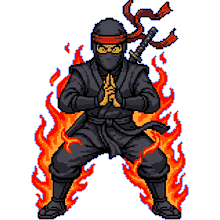
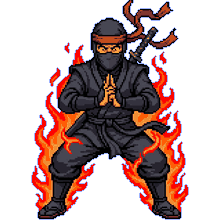
版14：膝をつく忍者・肌の色の直し

diff --git a/src/scenes/PlayScene.js b/src/scenes/PlayScene.js
@@ -1,18 +1,18 @@
 // 遊ぶ画面（key 'play'・scene.start('play', {index})）
 // 押す＝忍者の場所から線を引き始める／動かす＝線を伸ばす（墨が切れたら先が赤く光って止まる）／離す＝resolveDash を1回だけ呼び、結果を絵にする
 // 線を引いている間は敵の時間が DRAW_SLOW 倍。指は1本だけ（線の途中の2本目は無視＝Review Focus 3）
-import { t } from '../i18n/i18n.js?v=13';
-import { textStyle, buttonStyle, GOLD } from '../ui/text.js?v=13';
-import { crisp } from '../ui/pixel.js?v=13';
-import { play as sfx } from '../ui/sfx.js?v=13';
-import { W, H, DASH_SPEED, HITSTOP, DRAW_SLOW, HERO_FRAME } from '../config.js?v=13';
-import { startStroke, addPoint, isSwipe, pointAt } from '../core/path.js?v=13';
-import { resolveDash, foePos, starsFor } from '../core/dash.js?v=13';
-import { loadSave, writeSave, recordClear, learnKaton, markSeen, recordScore, totalBest } from '../core/save.js?v=13';
-import { killPoints, BOSS_HIT, BOSS_KILL, timeBonus, roomScore } from '../core/score.js?v=13';
-import { STAGES, katonFor } from '../data/stages.js?v=13';
-import { FOES, foeFlags, needsJutsu, badgeMarks } from '../data/foes.js?v=13';
-import { platformStore, sendScore } from '../platform.js?v=13';
+import { t } from '../i18n/i18n.js?v=14';
+import { textStyle, buttonStyle, GOLD } from '../ui/text.js?v=14';
+import { crisp } from '../ui/pixel.js?v=14';
+import { play as sfx } from '../ui/sfx.js?v=14';
+import { W, H, DASH_SPEED, HITSTOP, DRAW_SLOW, HERO_FRAME } from '../config.js?v=14';
+import { startStroke, addPoint, isSwipe, pointAt } from '../core/path.js?v=14';
+import { resolveDash, foePos, starsFor } from '../core/dash.js?v=14';
+import { loadSave, writeSave, recordClear, learnKaton, markSeen, recordScore, totalBest } from '../core/save.js?v=14';
+import { killPoints, BOSS_HIT, BOSS_KILL, timeBonus, roomScore } from '../core/score.js?v=14';
+import { STAGES, katonFor } from '../data/stages.js?v=14';
+import { FOES, foeFlags, needsJutsu, badgeMarks } from '../data/foes.js?v=14';
+import { platformStore, sendScore } from '../platform.js?v=14';
 
 const LINE = 0x96dcff, RED = 0xe0503c;
 
@@ -25,6 +25,7 @@ export class PlayScene extends Phaser.Scene {
     this.load.image('pose_in', 'assets/art/pose_in.png'); // 印を結ぶ忍者（火遁）
     this.load.image('pose_noto', 'assets/art/pose_noto.png'); // 納刀の決め（クリア）
     this.load.image('pose_kamae', 'assets/art/pose_kamae.png'); // 低い構え（3・2・1）
+    this.load.image('pose_shippai', 'assets/art/pose_shippai.png'); // 膝をつく（失敗）
     this.load.spritesheet('hero', 'assets/art/hero.png', { frameWidth: HERO_FRAME.w, frameHeight: HERO_FRAME.h });
     for (const [id, f] of Object.entries(FOES)) this.load.image(`foe_${id}`, `assets/${f.img}`);
   }
@@ -288,7 +289,11 @@ export class PlayScene extends Phaser.Scene {
   fail() {
     this.over = true; sfx('fail'); this.cameras.main.shake(200, 0.015);
     this.save = markSeen(this.save, 'makibishi'); writeSave(platformStore(), this.save); // ふれたら図鑑に
-    this.banner(t('play.fail'), t('play.failSub'), 1.3);
+    const c = this.add.container(W / 2, H / 2).setDepth(12); // まきびしを踏んで膝をつく忍者（合図の字＝11より前）
+    c.add(this.add.rectangle(0, 0, W, 700, 0x000000, 0.6));
+    c.add(this.add.image(0, -60, 'pose_shippai').setScale(2.3));
+    c.add(this.add.text(0, 230, t('play.fail'), textStyle(64, GOLD)).setOrigin(0.5));
+    c.add(this.add.text(0, 295, t('play.failSub'), textStyle(32)).setOrigin(0.5));
     this.time.delayedCall(1400, () => this.scene.restart({ index: this.index }));
   }
 
@@ -309,7 +314,7 @@ export class PlayScene extends Phaser.Scene {
 
   // 納刀の決め：間をクリアした瞬間、刀を収めた忍者を大きく出す（その後で結果の画面）
   notoShow(combo) {
-    const c = this.add.container(W / 2, H / 2).setDepth(10);
+    const c = this.add.container(W / 2, H / 2).setDepth(12); // 合図の字（11）より前
     c.add(this.add.rectangle(0, 0, W, 760, 0x000000, 0.55));
     const img = this.add.image(40, -40, 'pose_noto').setScale(2.6);
     c.add(img);

diff --git a/src/main.js b/src/main.js
@@ -1,12 +1,12 @@
 // src/main.js — 言葉と記録を決めて Phaser を始める（相撲ゲームの main.js と同じ分かれ道・同意書と♪の札は無い）
-import { TitleScene } from './scenes/TitleScene.js?v=13';
-import { PlayScene } from './scenes/PlayScene.js?v=13';
-import { MapScene } from './scenes/MapScene.js?v=13';
-import { CollectionScene } from './scenes/CollectionScene.js?v=13';
-import { ClearScene } from './scenes/ClearScene.js?v=13';
-import { initLang, setLang } from './i18n/i18n.js?v=13';
-import { isPlayables, initPlatform, playablesLang, platformStore, onYtPause } from './platform.js?v=13';
-import { W, H } from './config.js?v=13';
+import { TitleScene } from './scenes/TitleScene.js?v=14';
+import { PlayScene } from './scenes/PlayScene.js?v=14';
+import { MapScene } from './scenes/MapScene.js?v=14';
+import { CollectionScene } from './scenes/CollectionScene.js?v=14';
+import { ClearScene } from './scenes/ClearScene.js?v=14';
+import { initLang, setLang } from './i18n/i18n.js?v=14';
+import { isPlayables, initPlatform, playablesLang, platformStore, onYtPause } from './platform.js?v=14';
+import { W, H } from './config.js?v=14';
 
 export const SCENES = [TitleScene, MapScene, PlayScene, CollectionScene, ClearScene];
 

diff --git a/src/scenes/TitleScene.js b/src/scenes/TitleScene.js
@@ -1,12 +1,12 @@
 // 表紙：武家屋敷の背景・宙を舞う忍者（ゆっくり上下に浮き、床に影）・題・「たたいて始める」
 // 描いたら YouTube に firstFrameReady、たたける時に gameReady
 // 忍者の絵は Gemini では跳ばなかった（片足立ちになった）＝画面で浮かせて宙を舞って見せる（10/18）
-import { t } from '../i18n/i18n.js?v=13';
-import { textStyle, GOLD } from '../ui/text.js?v=13';
-import { crisp } from '../ui/pixel.js?v=13';
-import { W, H } from '../config.js?v=13';
-import { signalFirstFrame, signalGameReady } from '../platform.js?v=13';
-import { PARADE } from '../data/parade.js?v=13';
+import { t } from '../i18n/i18n.js?v=14';
+import { textStyle, GOLD } from '../ui/text.js?v=14';
+import { crisp } from '../ui/pixel.js?v=14';
+import { W, H } from '../config.js?v=14';
+import { signalFirstFrame, signalGameReady } from '../platform.js?v=14';
+import { PARADE } from '../data/parade.js?v=14';
 
 const FLOAT_Y = 640, FLOAT_AMP = 26, FLOOR_Y = 975;
 // 百鬼夜行の行列：2列（奥＝小さく暗く遅い・手前＝大きく明るい）。足元の高さ・大きさ・色・1秒に進む px・間隔

diff --git a/src/scenes/ClearScene.js b/src/scenes/ClearScene.js
@@ -1,12 +1,12 @@
 // 武家屋敷のクリア（key 'clear'）：星の合計・点数の合計・「次の場所は作っている途中」（Playables の決まり＝続きが無いと分かる）
-import { t } from '../i18n/i18n.js?v=13';
-import { textStyle, buttonStyle, GOLD } from '../ui/text.js?v=13';
-import { crisp } from '../ui/pixel.js?v=13';
-import { W, H, HERO_FRAME } from '../config.js?v=13';
-import { loadSave, clearSummary } from '../core/save.js?v=13';
-import { STAGES } from '../data/stages.js?v=13';
-import { platformStore } from '../platform.js?v=13';
-import { play as sfx } from '../ui/sfx.js?v=13';
+import { t } from '../i18n/i18n.js?v=14';
+import { textStyle, buttonStyle, GOLD } from '../ui/text.js?v=14';
+import { crisp } from '../ui/pixel.js?v=14';
+import { W, H, HERO_FRAME } from '../config.js?v=14';
+import { loadSave, clearSummary } from '../core/save.js?v=14';
+import { STAGES } from '../data/stages.js?v=14';
+import { platformStore } from '../platform.js?v=14';
+import { play as sfx } from '../ui/sfx.js?v=14';
 
 export class ClearScene extends Phaser.Scene {
   constructor() { super('clear'); }

diff --git a/src/scenes/CollectionScene.js b/src/scenes/CollectionScene.js
@@ -1,12 +1,12 @@
 // 図鑑（key 'collection'）：2列×5段の札・押すと説明・まだ出会っていない物は「？」
-import { t } from '../i18n/i18n.js?v=13';
-import { textStyle, buttonStyle, GOLD } from '../ui/text.js?v=13';
-import { crisp } from '../ui/pixel.js?v=13';
-import { W, H, HERO_FRAME } from '../config.js?v=13';
-import { loadSave } from '../core/save.js?v=13';
-import { COLLECTION, visible } from '../data/collection.js?v=13';
-import { FOES } from '../data/foes.js?v=13';
-import { platformStore } from '../platform.js?v=13';
+import { t } from '../i18n/i18n.js?v=14';
+import { textStyle, buttonStyle, GOLD } from '../ui/text.js?v=14';
+import { crisp } from '../ui/pixel.js?v=14';
+import { W, H, HERO_FRAME } from '../config.js?v=14';
+import { loadSave } from '../core/save.js?v=14';
+import { COLLECTION, visible } from '../data/collection.js?v=14';
+import { FOES } from '../data/foes.js?v=14';
+import { platformStore } from '../platform.js?v=14';
 
 export class CollectionScene extends Phaser.Scene {
   constructor() { super('collection'); }

diff --git a/src/scenes/MapScene.js b/src/scenes/MapScene.js
@@ -1,11 +1,11 @@
 // 間を選ぶ（key 'map'）：武家屋敷の10の間を2列×5段・星・開いていない間は鍵・図鑑へ
-import { t } from '../i18n/i18n.js?v=13';
-import { textStyle, buttonStyle, GOLD } from '../ui/text.js?v=13';
-import { crisp } from '../ui/pixel.js?v=13';
-import { W } from '../config.js?v=13';
-import { loadSave, isOpen } from '../core/save.js?v=13';
-import { STAGES } from '../data/stages.js?v=13';
-import { platformStore } from '../platform.js?v=13';
+import { t } from '../i18n/i18n.js?v=14';
+import { textStyle, buttonStyle, GOLD } from '../ui/text.js?v=14';
+import { crisp } from '../ui/pixel.js?v=14';
+import { W } from '../config.js?v=14';
+import { loadSave, isOpen } from '../core/save.js?v=14';
+import { STAGES } from '../data/stages.js?v=14';
+import { platformStore } from '../platform.js?v=14';
 
 export class MapScene extends Phaser.Scene {
   constructor() { super('map'); }

diff --git a/src/core/dash.js b/src/core/dash.js
@@ -1,9 +1,9 @@
 // 駆け抜けの結果（画面から離した純粋な関数・tests/dash.test.js）
 // 指を離した時に1回だけ呼び、結果を画面が絵にする（一時停止で途中から戻っても同じ結果＝Review Focus 4）
 // 敵 foe = {id, x, y, move?: {dx, dy, period}, shield?: true, hp?: number}（shield と hp は呼ぶ側が敵の表から写して渡す）
-import { DASH_SPEED, HIT_R, TRAP_R } from '../config.js?v=13';
-import { pathLength, pointAt } from './path.js?v=13';
-import { findLoop, inside } from './jutsu.js?v=13';
+import { DASH_SPEED, HIT_R, TRAP_R } from '../config.js?v=14';
+import { pathLength, pointAt } from './path.js?v=14';
+import { findLoop, inside } from './jutsu.js?v=14';
 
 const SAMPLE = 10; // 線の上を何 px ごとに見るか
 

diff --git a/src/data/stages.js b/src/data/stages.js
@@ -2,7 +2,7 @@
 // 1〜5＝一の太刀／6＝火遁を覚える（ぬりかべの固まり）／7〜9＝混ぜ／10＝ボス化け猫（hp 3）
 // solution＝★3の答えの線（at＝指を離す時刻・秒）。tests/stages.test.js が答えを流して「★3で解ける」を確かめる
 // 動く敵は move（dx, dy, period）。答えは動く敵がいちばん端にいる時（sin＝1・動きがいちばん遅い所）に通す
-import { INK } from '../config.js?v=13';
+import { INK } from '../config.js?v=14';
 
 const P = (x, y) => ({ x, y });
 // 輪の線：下（cx, cy+r）から始めて1周（火遁）

diff --git a/src/core/path.js b/src/core/path.js
@@ -1,6 +1,6 @@
 // 線の計算（画面から離した純粋な関数・tests/path.test.js）
 // 線は忍者の今の場所から始まる。墨（ink）を使い切ったら、その所で止まり clipped=true（その後の指の動きは線にならない＝本人の決定）
-import { W, H, MIN_STROKE, STEP } from '../config.js?v=13';
+import { W, H, MIN_STROKE, STEP } from '../config.js?v=14';
 
 const dist = (a, b) => Math.hypot(b.x - a.x, b.y - a.y);
 

diff --git a/src/ui/sfx.js b/src/ui/sfx.js
@@ -1,5 +1,5 @@
 // 効果音（合成・音のファイルなし・小さめ）。Playables では YouTube の消音に従う
-import { isPlayables, ytAudioEnabled, onYtAudioChange } from '../platform.js?v=13';
+import { isPlayables, ytAudioEnabled, onYtAudioChange } from '../platform.js?v=14';
 
 let ac = null, muted = isPlayables() ? !ytAudioEnabled() : false;
 if (isPlayables()) onYtAudioChange((on) => { muted = !on; });

diff --git a/src/i18n/i18n.js b/src/i18n/i18n.js
@@ -1,6 +1,6 @@
 // 言葉の切り替えと文の引き方。画面の文字は全部ここを通す（英語が先・分からない言葉は英語）
-import ja from './ja.js?v=13';
-import en from './en.js?v=13';
+import ja from './ja.js?v=14';
+import en from './en.js?v=14';
 
 export const TABLES = { ja, en };
 export const LANGS = ['en', 'ja'];

diff --git a/index.html b/index.html
@@ -17,6 +17,6 @@
 <body>
 <div id="game"></div>
 <script src="vendor/phaser.min.js"></script>
-<script type="module" src="src/main.js?v=13"></script>
+<script type="module" src="src/main.js?v=14"></script>
 </body>
 </html>
